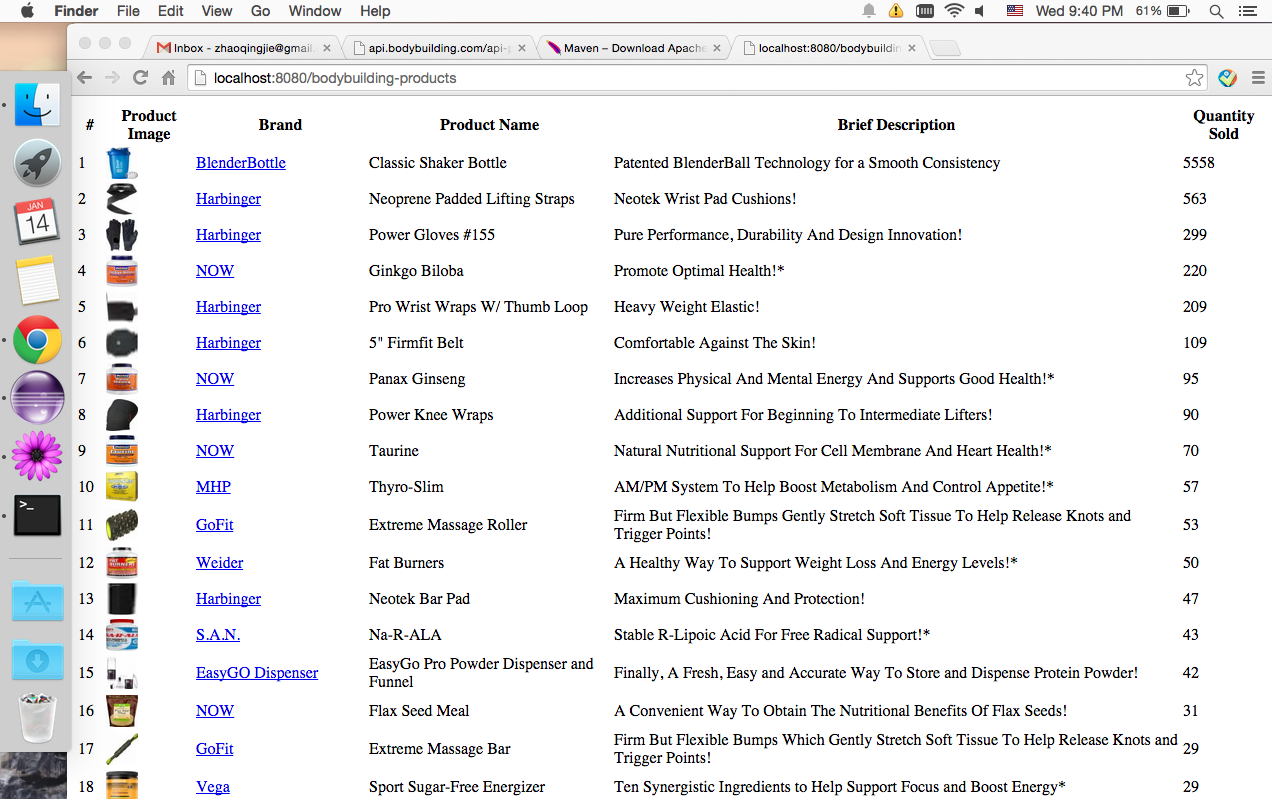
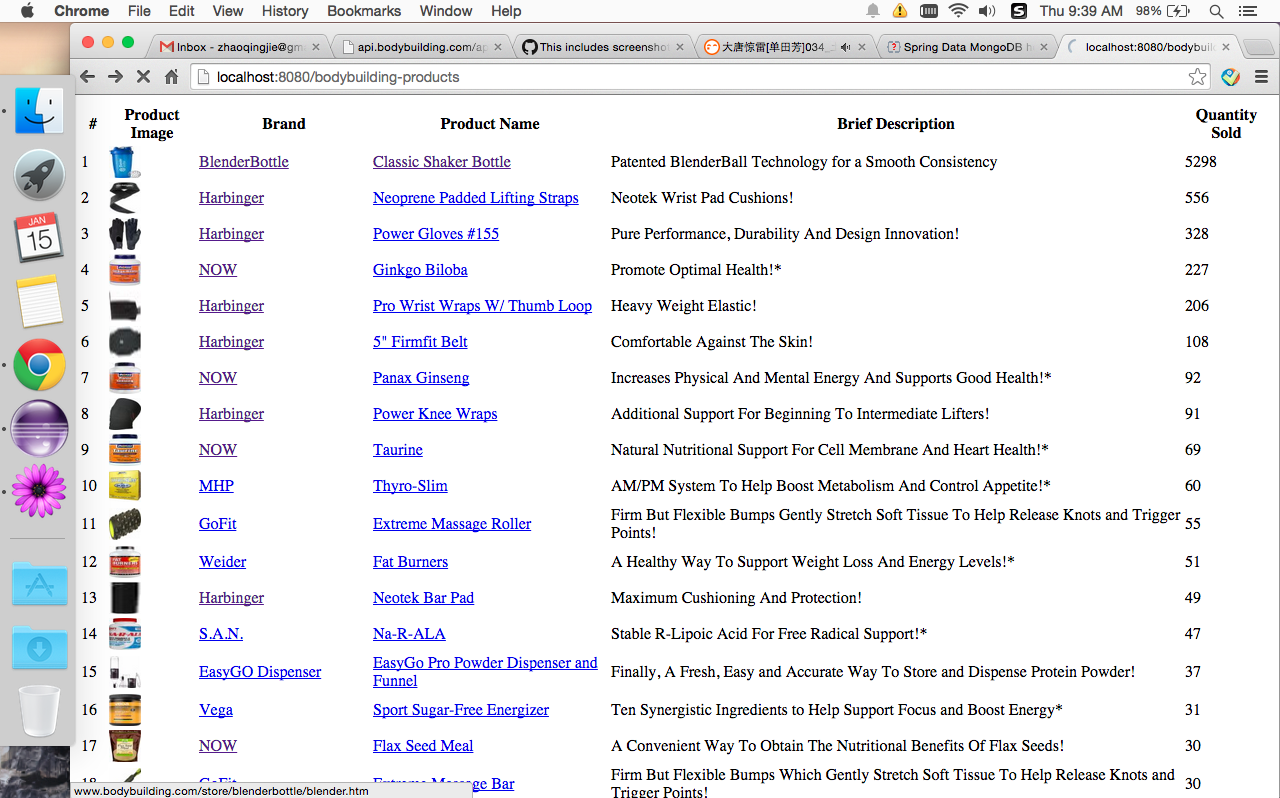
add a link for product name

diff --git a/src/main/java/jie/Product.java b/src/main/java/jie/Product.java
@@ -12,6 +12,7 @@ public class Product {
 	private String brandId;
 	private String brandName;
 	private String brandUrl;
+	private String productUrl;
 	private String description;
 	@JsonProperty("numberSoldInLast30Days")
 	private int quantitySold;
@@ -62,6 +63,21 @@ public class Product {
 
 	public void setBrandUrl(String brandUrl) {
 		this.brandUrl = brandUrl;
+	}
+
+	/**
+	 * @return the productUrl
+	 */
+	public String getProductUrl() {
+		return productUrl;
+	}
+
+	/**
+	 * @param productUrl
+	 *            the productUrl to set
+	 */
+	public void setProductUrl(String productUrl) {
+		this.productUrl = productUrl;
 	}
 
 	public String getDescription() {
